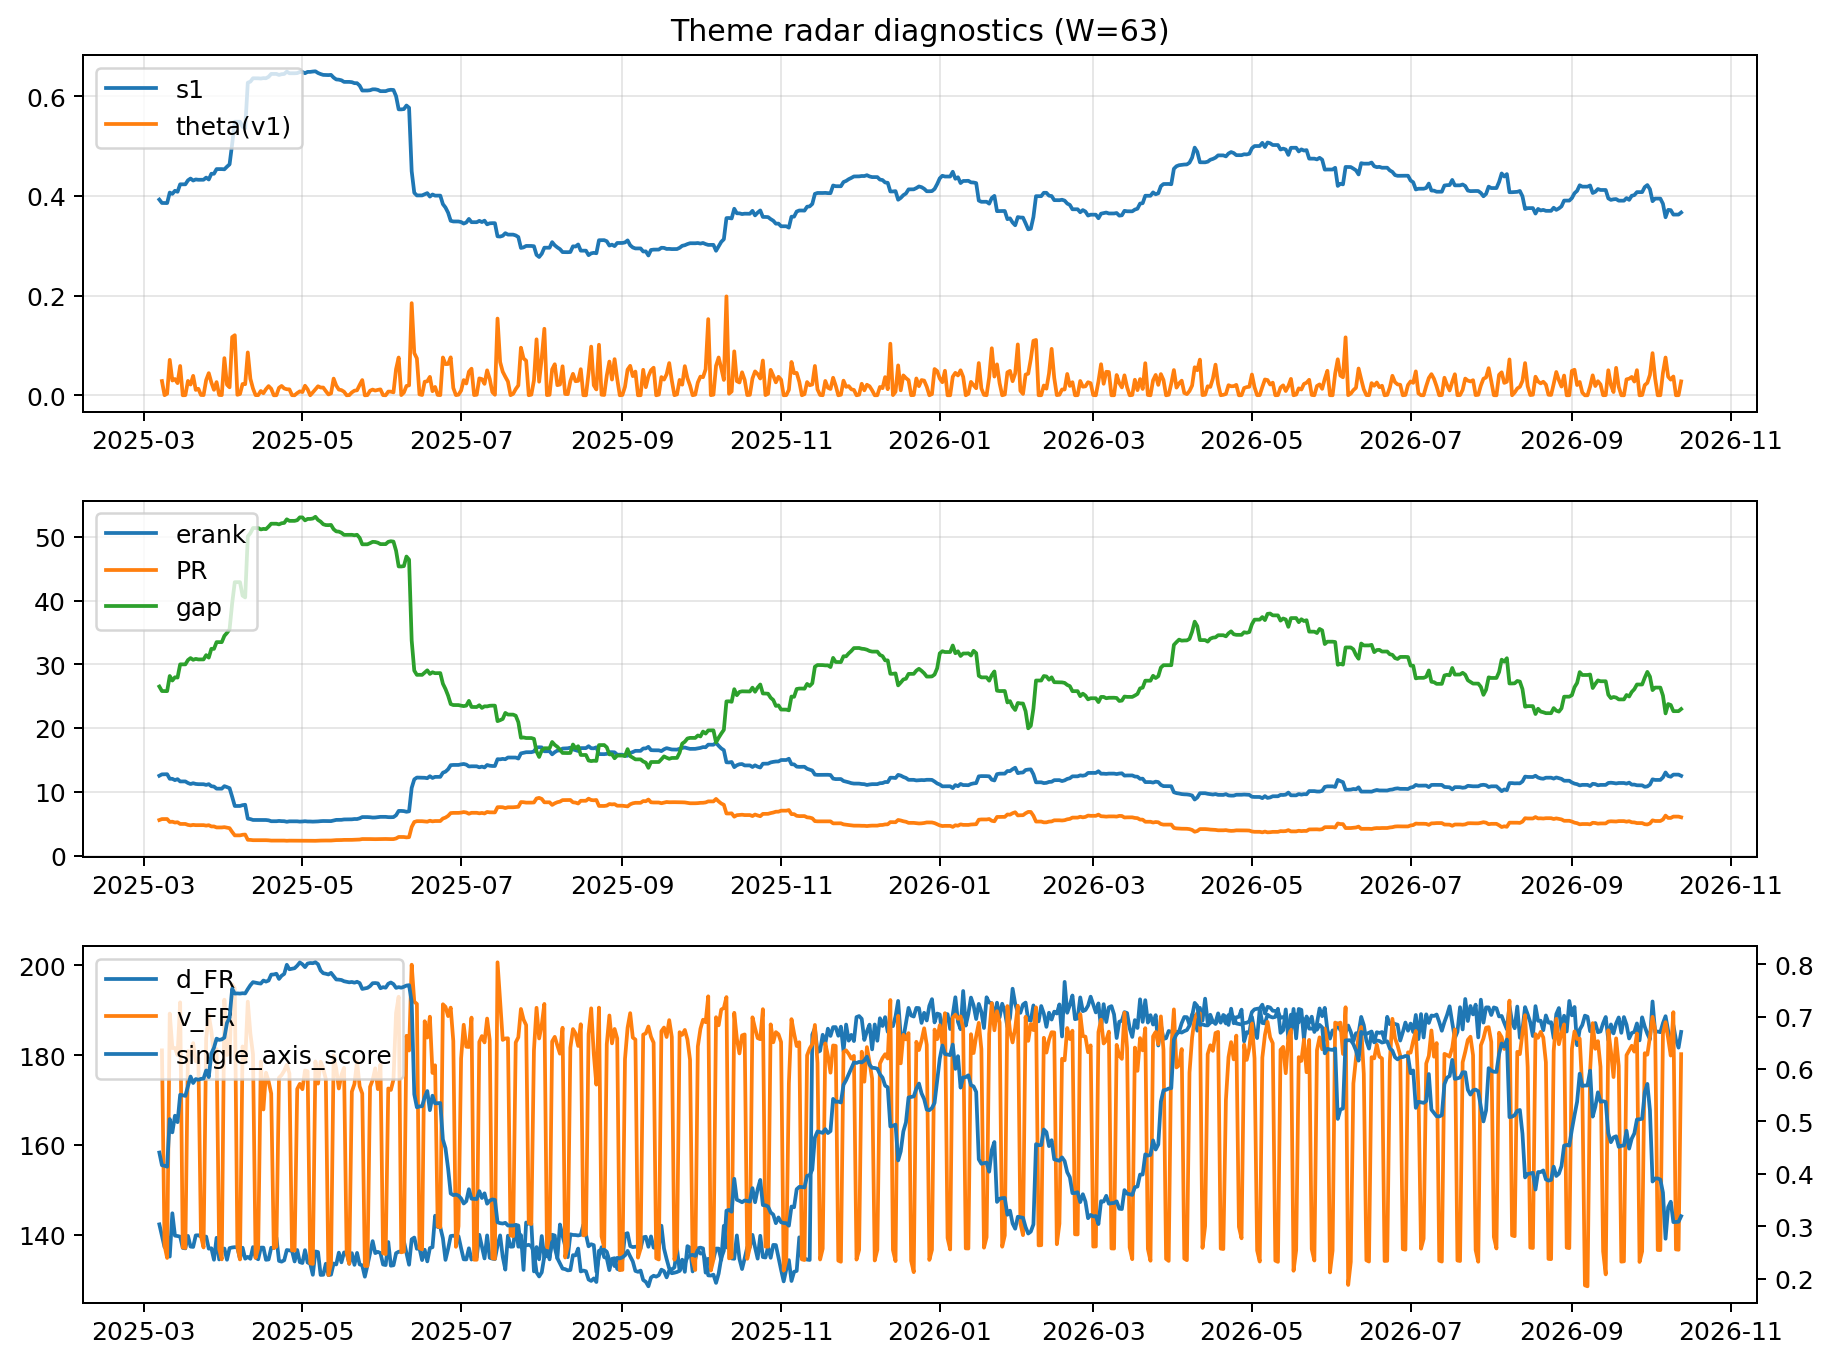
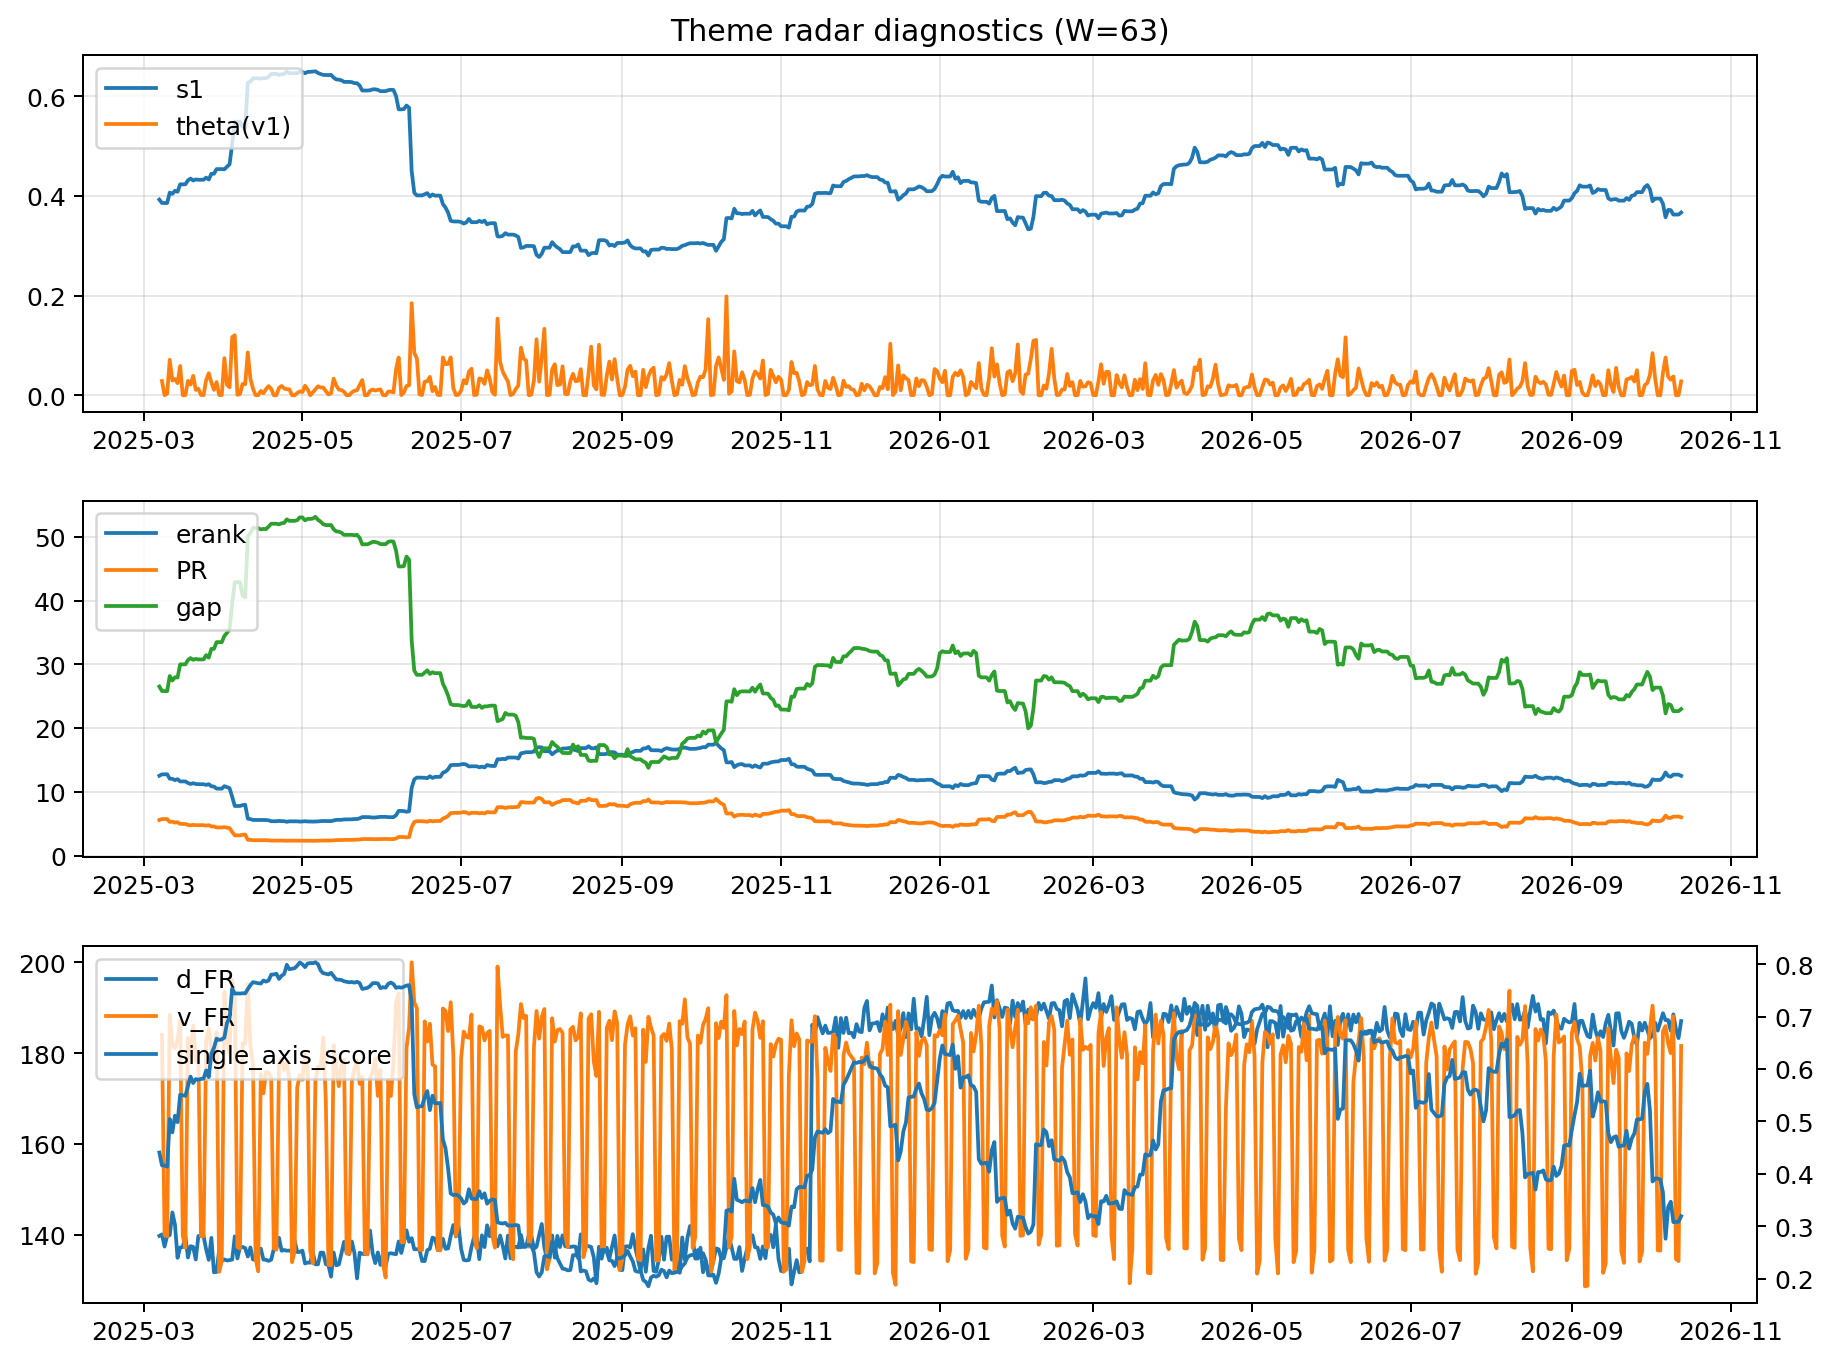
log: 2026-10-13 | sha256:d2607c48b95972e6ccebdca452d19f89d2e2df315166df0ea3ceb471a7b59552

diff --git a/logs/2026-10-13.md b/logs/2026-10-13.md
@@ -3,43 +3,43 @@
 ![diagnostic W63](../assets/diagnostic/2026-10-13_W63.png)
 
 ## Leaders (v1) — W=63
-- **Nuclear_Uranium** (0.0777217916599254)
-- Semis (0.0613759874439995)
-- Space (0.0571332110339544)
+- **Nuclear_Uranium** (0.0777217973160071)
+- Semis (0.0613759883909542)
+- Space (0.0571332170726327)
 
 ## Challengers — W=63
-**v2:** Semis (0.0947486799451797), Genomics_Bio (0.0786540595737532), MegaCap_AI (0.072638061013164)
-**v3:** Software_Cloud (0.114932866372122), Cyber (0.0810101984840635), Metals (0.0712861022096554)
+**v2:** Semis (0.0947486895254339), Genomics_Bio (0.0786539480368029), MegaCap_AI (0.0726381068571759)
+**v3:** Software_Cloud (0.1149328745061074), Cyber (0.0810102139030537), Metals (0.071286138279733)
 
 ## Migration (20D slope) — W=63
 **Top risers:**
-- axis_DataCenter_Infra: 0.0004604531541353
-- axis_Crypto: 0.0004261748061404
-- axis_Sector_RealEstate: 0.0004170234007991
-- axis_Metals: 0.0003210791970254
-- axis_Sector_Utilities: 0.0001871710043061
-- axis_Sector_ConsDisc: 0.0001755581116794
-- axis_Vol: 0.0001537172383871
-- axis_Sector_Comm: 0.0001254907054994
-- axis_Clean_Wind: 0.000113829639534
-- axis_Sector_Materials: 0.0001115933999559
+- axis_DataCenter_Infra: 0.0004604533667873
+- axis_Crypto: 0.0004261749443834
+- axis_Sector_RealEstate: 0.0004170236291973
+- axis_Metals: 0.0003210790575163
+- axis_Sector_Utilities: 0.0001871711804089
+- axis_Sector_ConsDisc: 0.0001755579499638
+- axis_Vol: 0.0001537171430152
+- axis_Sector_Comm: 0.0001254907175489
+- axis_Clean_Wind: 0.0001138296165512
+- axis_Sector_Materials: 0.0001115935287127
 
 **Top fallers:**
-- axis_Space: -0.0001552551502243
-- axis_Defense: -0.0001622721724499
-- axis_Sector_ConsStap: -0.0001683984656197
-- axis_Cyber: -0.0002073860374932
-- axis_Commodities: -0.0002290894237918
-- axis_Nuclear_Uranium: -0.0002826646206026
-- axis_Quantum: -0.0002962629336917
-- axis_Semis: -0.0003361131540518
-- axis_Genomics_Bio: -0.0003446816514018
-- axis_Drones_Autonomy: -0.0003887637976602
+- axis_Space: -0.0001552555589255
+- axis_Defense: -0.0001622722364236
+- axis_Sector_ConsStap: -0.0001683985330396
+- axis_Cyber: -0.0002073861571529
+- axis_Commodities: -0.0002290895475196
+- axis_Nuclear_Uranium: -0.0002826648951865
+- axis_Quantum: -0.0002962637442295
+- axis_Semis: -0.0003361136348063
+- axis_Genomics_Bio: -0.0003446813862673
+- axis_Drones_Autonomy: -0.0003887640370554
 
 ## Risk line (W=63)
-- s1: 0.3666990001032317
-- theta_v1: 0.0279419800221635
-- v_FR: 180.21173387455923
+- s1: 0.3666989225948545
+- theta_v1: 0.0279419885794053
+- v_FR: 181.60168169778632
 - single_axis_score: 0.3191126279863481
 
 ## Interpretation
@@ -48,7 +48,7 @@
 - Action: Tomorrow watchlist: DataCenter_Infra, Crypto, Sector_RealEstate, Metals, Sector_Utilities + v2_top1=Semis
 - Action: Hedge note: normal correlation stability.
 
-- Percentiles (W=63 history): vfr_pct=0.48, theta_pct=0.63, s1_pct=0.28, score_pct=0.19.
+- Percentiles (W=63 history): vfr_pct=0.53, theta_pct=0.63, s1_pct=0.28, score_pct=0.19.
 
 ---
[2 lines of base64/hex data omitted]
